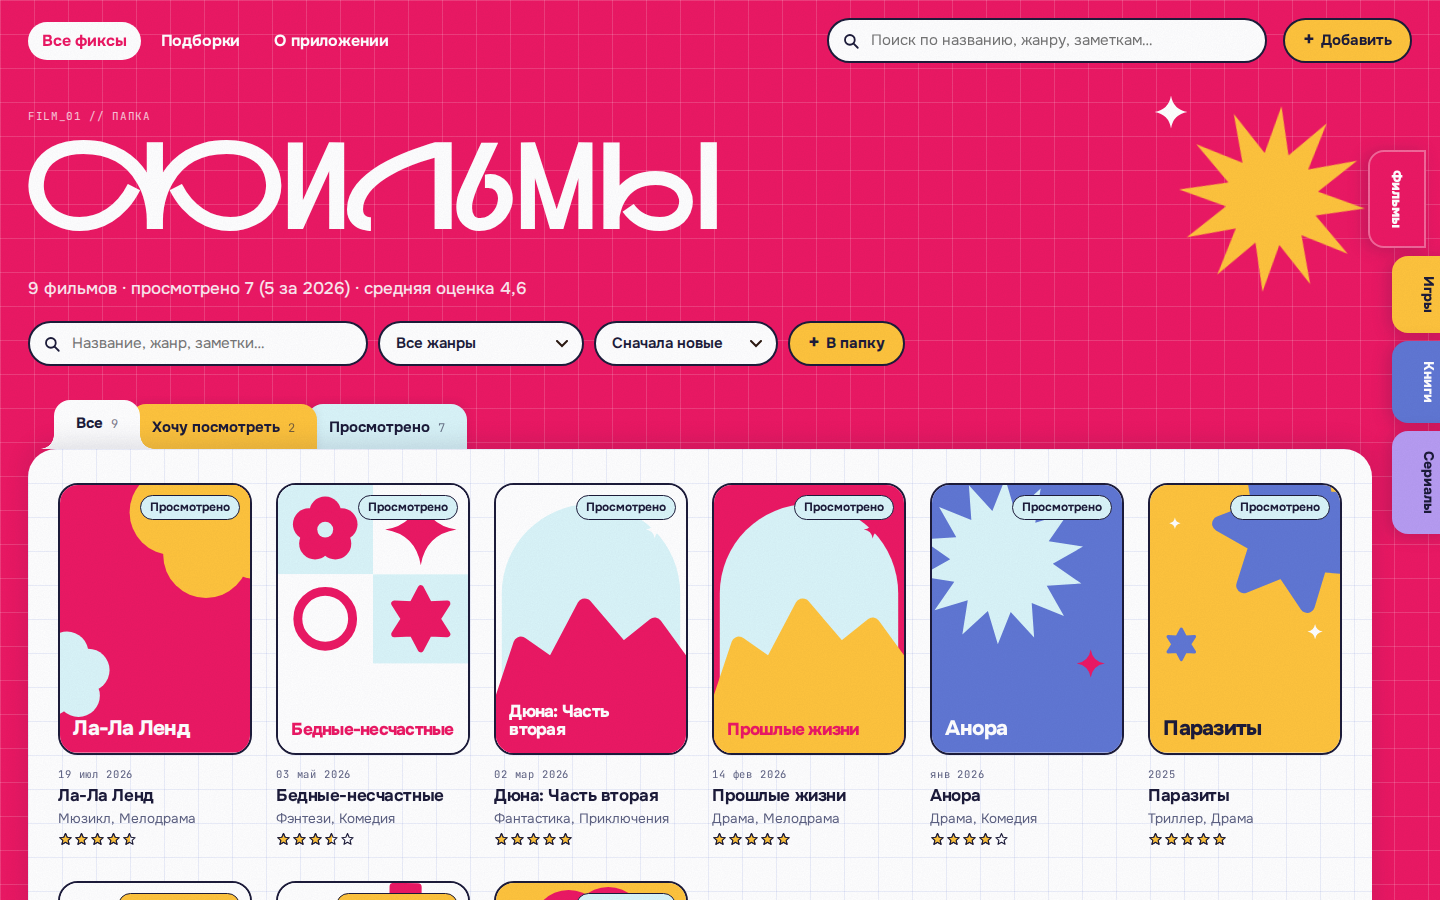
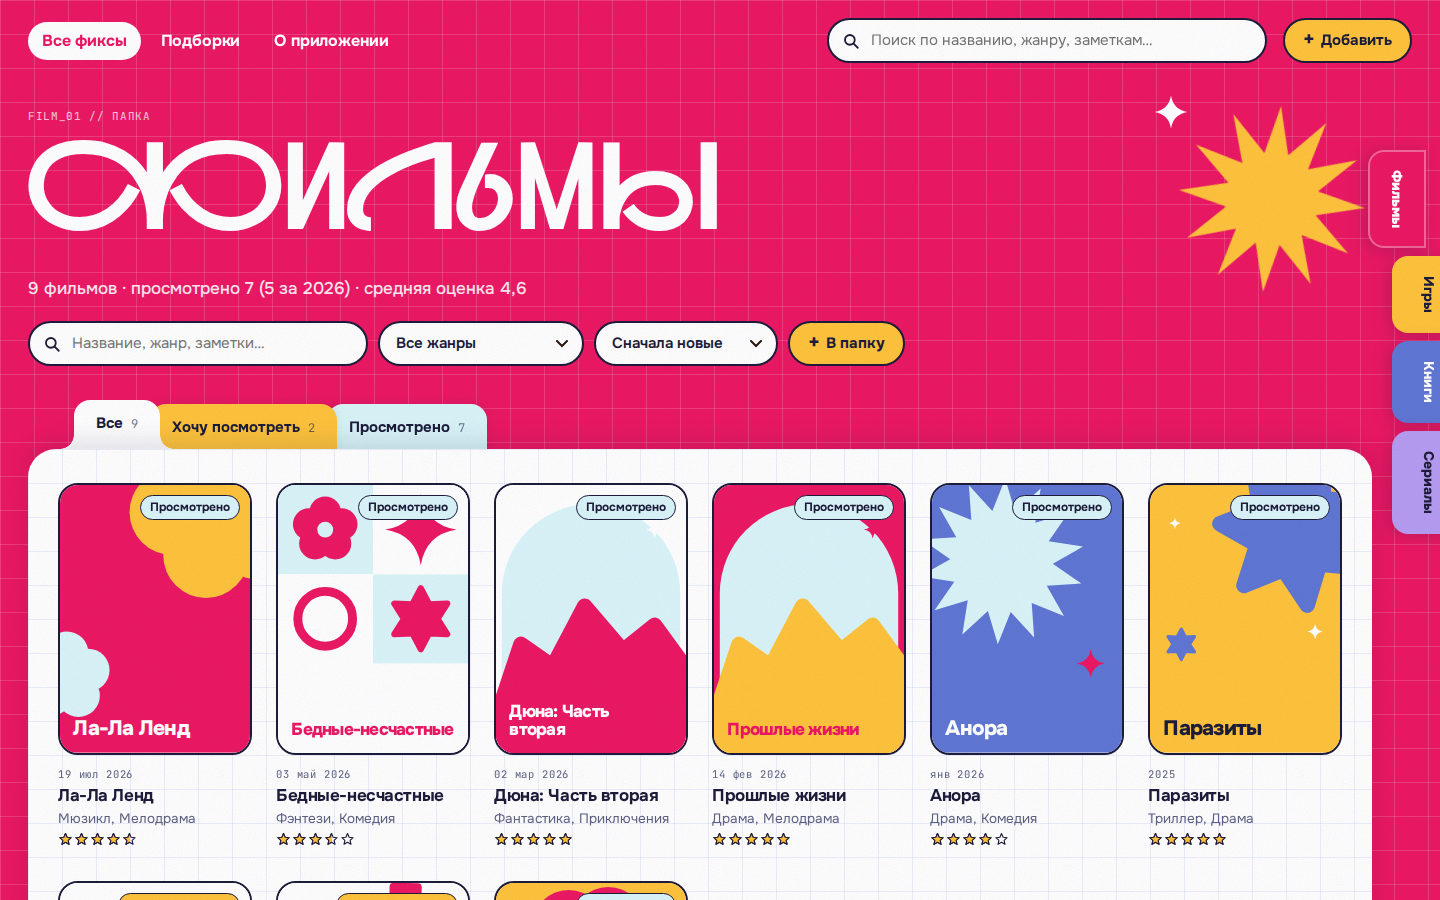
Язычки статусов: не отрываются от листа, «Все» отличается от активного
Язычки начинаются за скруглением листа, плечико активного больше не
висит в воздухе. Неактивный «Все» — полупрозрачный белый вместо
сплошного, чтобы не сливаться с активным язычком.

Claude-Session: https://claude.ai/code/session_01PDBpM1BjsubR5k6YmRK1Ea

Changed region(s): [[0.0312, 0.4356, 0.3438, 0.4978]]

diff --git a/css/styles.css b/css/styles.css
@@ -406,7 +406,8 @@ body[data-view="collection"] .mainnav a.is-active { background: var(--page-fi, v
 .status-tabs {
   display: flex; align-items: flex-end;
   margin-top: 30px;
-  padding-left: 26px;
+  /* язычки начинаются за скруглением листа (28px) + место под плечико (--r) */
+  padding-left: calc(28px + var(--r) + 4px);
   overflow-x: auto;
   scrollbar-width: none;
   /* место для «плечиков» активного язычка */
@@ -946,7 +947,7 @@ body[data-view="collection"] .mainnav a.is-active { background: var(--page-fi, v
   .side-tabs { position: static; flex-direction: row; flex-wrap: wrap; gap: 6px; margin: 4px var(--gutter) 18px; }
   .side-tab { writing-mode: horizontal-tb; border-radius: 14px; transform: none; padding: 9px 14px 10px; filter: none; }
   .side-tab.is-current, .side-tab.is-current:hover { transform: none; padding: 9px 14px 10px; box-shadow: inset 0 0 0 2px var(--fi); }
-  .status-tabs { padding-left: 14px; }
+  .status-tabs { padding-left: calc(22px + var(--r) + 2px); }
   .stab { padding: 11px 16px 18px; font-size: 14px; }
   .sheet { padding: 24px 16px 40px; border-radius: 22px 22px 0 0; }
   .grid { grid-template-columns: repeat(auto-fill, minmax(150px, 1fr)); gap: 26px 14px; }

diff --git a/js/search.js b/js/search.js
@@ -106,7 +106,7 @@ window.Diary = window.Diary || {};
       : 'По запросу «' + q + '» — ' + all.length + ' ' + utils.plural(all.length, ['запись', 'записи', 'записей']) +
         (cols.length ? ' и ' + cols.length + ' ' + utils.plural(cols.length, ['подборка', 'подборки', 'подборок']) : '');
 
-    var tabs = [['all', 'Все', '#FFFFFF', all.length]].concat(Diary.CATEGORIES.map(function (c) {
+    var tabs = [['all', 'Все', 'rgba(255, 255, 255, .55)', all.length]].concat(Diary.CATEGORIES.map(function (c) {
       return [c, Diary.CATEGORY_LABEL_PLURAL[c], Diary.THEME[c].c, all.filter(function (e) { return e.category === c; }).length, Diary.THEME[c].fi];
     }));
     if (category !== 'all' && !all.some(function (e) { return e.category === category; })) category = 'all';

diff --git a/js/category.js b/js/category.js
@@ -89,7 +89,7 @@ window.Diary = window.Diary || {};
 
     app.querySelector('[data-sub]').textContent = subtitle(all, cat);
 
-    var tabs = [['all', 'Все', '#FFFFFF']].concat(Diary.STATUS_KEYS.map(function (k) {
+    var tabs = [['all', 'Все', 'rgba(255, 255, 255, .55)']].concat(Diary.STATUS_KEYS.map(function (k) {
       return [k, Diary.STATUS_LABEL[cat][k], Diary.STATUS_COLOR[k]];
     }));
     app.querySelector('[data-status-tabs]').innerHTML = tabs.map(function (tab, i) {
